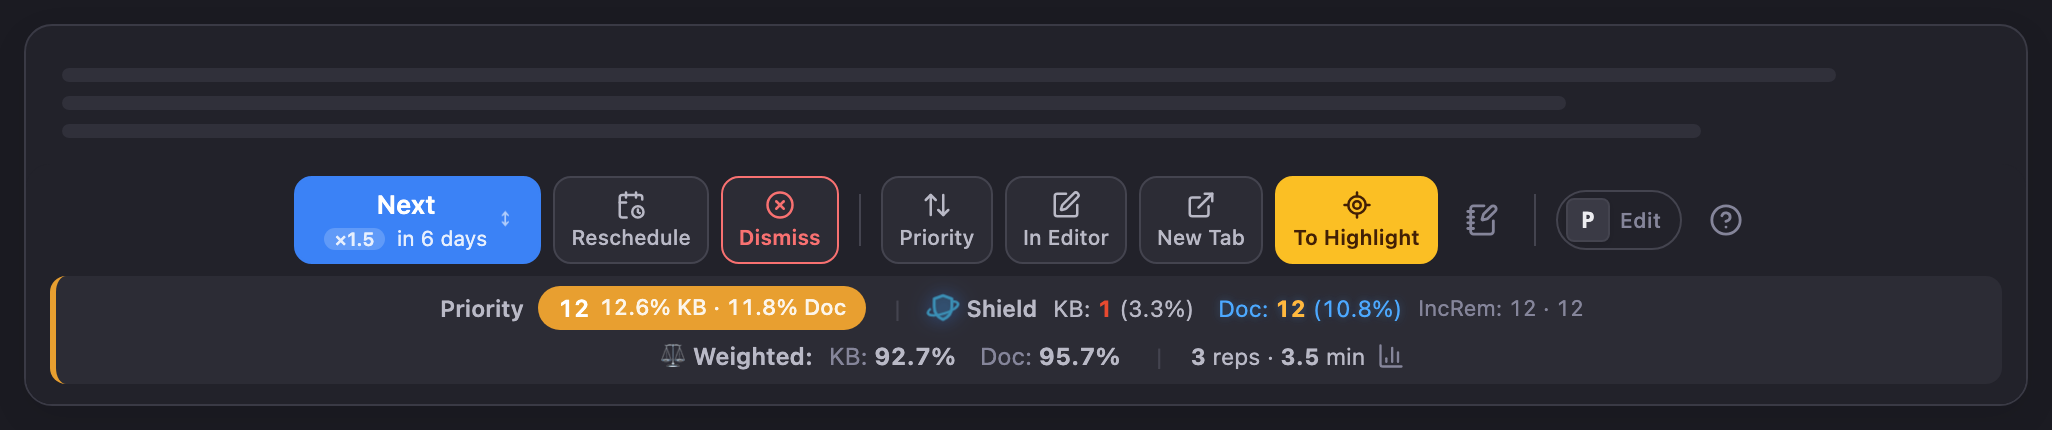
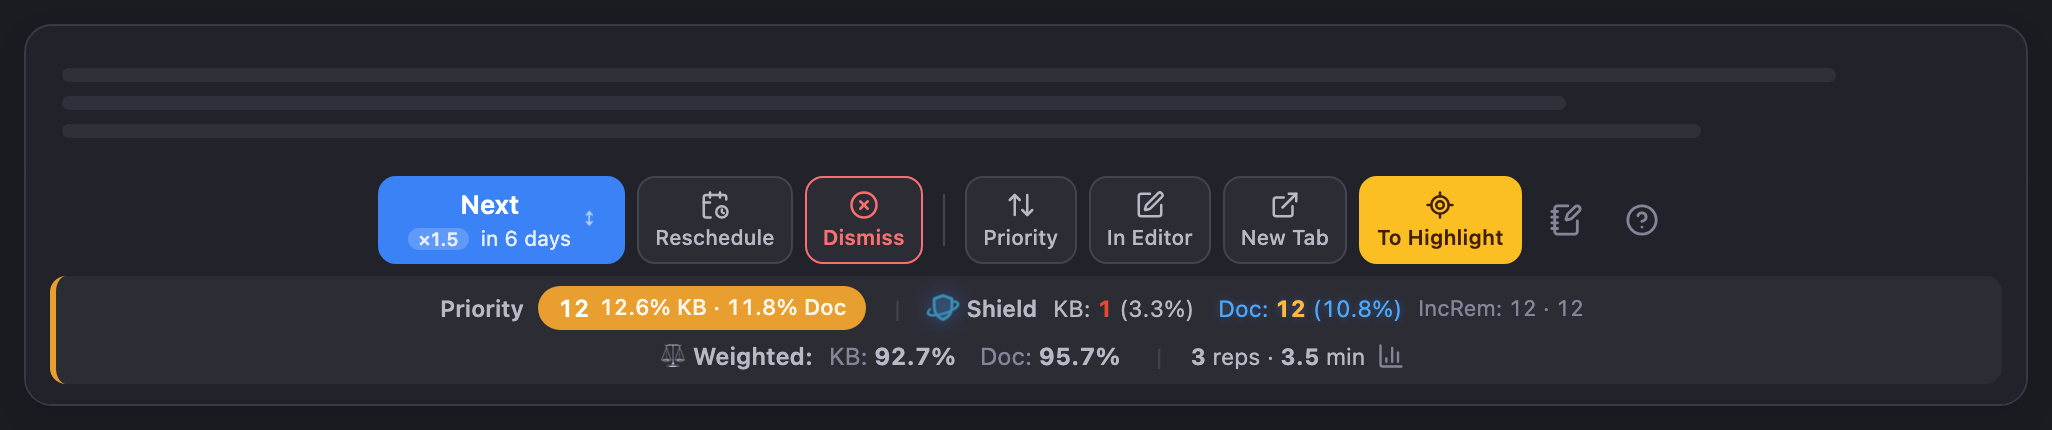
feat: update changelog for v1.0.239; remove P Edit hint and improve mobile button display

diff --git a/src/widgets/answer_buttons.tsx b/src/widgets/answer_buttons.tsx
@@ -861,52 +861,6 @@ export function AnswerButtons() {
           </>
         )}
 
-        {/* Desktop-only hint — compact informational badge */}
-        {!narrow && ['rem', 'pdf', 'pdf-highlight'].includes(remType || '') && (
-          <>
-            {divider}
-            <div
-              className="desktop-only-hint"
-              title="Press 'P' to open the Rem in RemNote's pop-up previewer for quick edits"
-              style={{
-                display: 'inline-flex',
-                alignItems: 'center',
-                gap: '5px',
-                padding: '3px 9px 3px 4px',
-                borderRadius: '999px',
-                border: '1px solid var(--rn-clr-border-primary)',
-                backgroundColor: 'transparent',
-                cursor: 'default',
-                pointerEvents: 'none',
-                userSelect: 'none',
-                whiteSpace: 'nowrap',
-              }}
-            >
-              <span style={{
-                display: 'inline-flex',
-                alignItems: 'center',
-                justifyContent: 'center',
-                width: '20px',
-                height: '20px',
-                borderRadius: '4px',
-                backgroundColor: 'var(--rn-clr-background-tertiary)',
-                border: '1px solid var(--rn-clr-border-primary)',
-                boxShadow: '0 1px 2px rgba(0,0,0,0.08)',
-                fontSize: '11px',
-                fontWeight: 700,
-                color: 'var(--rn-clr-content-primary)',
-                fontFamily: 'monospace',
-              }}>P</span>
-              <span style={{
-                fontSize: '10.5px',
-                fontWeight: 500,
-                color: 'var(--rn-clr-content-tertiary)',
-                letterSpacing: '0.2px',
-              }}>Edit</span>
-            </div>
-          </>
-        )}
-
         {!narrow && (
           <span
             role="button"

diff --git a/src/style.css b/src/style.css
@@ -86,12 +86,6 @@ body,
   border: 1px solid #ccc;
 }
 
-/* This rule applies only to screens with a max-width of 600px (typical for mobile phones) */
-@media (max-width: 600px) {
-  .desktop-only-hint {
-    display: none !important;
-  }
-}
 
 /* Calendar-icon-only date picker: hides the text portion and shows only the
    native browser calendar icon. Used alongside a text input for date entry. */

diff --git a/docs/Reviewing-Items-in-the-Queue.md b/docs/Reviewing-Items-in-the-Queue.md
@@ -65,12 +65,12 @@ This hold is within a session. Its counterpart across days is **cooling** in the
 
 ## The Answer Buttons
 
-![The answer buttons bar on a computer: Next, Reschedule, Dismiss, Priority, In Editor, New Tab and To Highlight, then the review-note, P Edit and help icons; below it the info bar with the priority, the Priority Shield, the Weighted Shield and the repetitions](assets/answer-bar-desktop.png#only-light){ width="900" }
-![The answer buttons bar on a computer: Next, Reschedule, Dismiss, Priority, In Editor, New Tab and To Highlight, then the review-note, P Edit and help icons; below it the info bar with the priority, the Priority Shield, the Weighted Shield and the repetitions](assets/answer-bar-desktop-dark.png#only-dark){ width="900" }
+![The answer buttons bar on a computer: Next, Reschedule, Dismiss, Priority, In Editor, New Tab and To Highlight, then the review-note and help icons; below it the info bar with the priority, the Priority Shield, the Weighted Shield and the repetitions](assets/answer-bar-desktop.png#only-light){ width="900" }
+![The answer buttons bar on a computer: Next, Reschedule, Dismiss, Priority, In Editor, New Tab and To Highlight, then the review-note and help icons; below it the info bar with the priority, the Priority Shield, the Weighted Shield and the repetitions](assets/answer-bar-desktop-dark.png#only-dark){ width="900" }
 
 Here is a breakdown of each button and its function, from left to right. Every button after **Next** is a compact icon button — icon above, one-word label below — so the whole row fits on one line; hover over any button for its full name and shortcut.
 
-**On a phone** (or in any pane narrower than 520 px) the bar shrinks to about a third of its height: one row with **Next** and its interval, then the same actions as square icon buttons without labels, and one line of figures under it (priority, repetitions, minutes). **New Tab**, the **P Edit** hint and the help icon are left out there.
+**On a phone** (or in any pane narrower than 520 px) the bar shrinks to about a third of its height: one row with **Next** and its interval, then the same actions as square icon buttons without labels, and one line of figures under it (priority, repetitions, minutes). **New Tab** and the help icon are left out there.
 
 ![The answer buttons bar on a phone: Next with its interval, then Reschedule, Dismiss, Priority, In Editor, To Highlight and the review note as icon buttons; below it one line with the priority and the repetitions](assets/answer-bar-phone.png#only-light){ width="420" }
 ![The answer buttons bar on a phone: Next with its interval, then Reschedule, Dismiss, Priority, In Editor, To Highlight and the review note as icon buttons; below it one line with the priority and the repetitions](assets/answer-bar-phone-dark.png#only-dark){ width="420" }
@@ -142,9 +142,6 @@ When the current Inc Rem has **more than one PDF source**, a small PDF dropdown 
   - The switcher is hidden for **PDF highlights and HTML hosts** (highlights are tied to a specific PDF; switching would orphan the queue card).
 
   *See the [PDF-Incremental-Reading-Workflow#multiple-pdf-sources--active-pdf-switcher-and-preferthispdf](PDF-Incremental-Reading-Workflow.md#multiple-pdf-sources-active-pdf-switcher-and-preferthispdf) section for the full resolution chain (pin → `#preferthispdf` → first PDF) and how it applies across every surface.*
-
-* **Press 'P' to Edit:**
-This is a non-clickable hint that appears **only for certain card types** (like regular Rem or PDFs). It reminds you that you can press the "P" key to open the Rem in the pop-up "previewer" for quick edits — a fast alternative when you don't want to use the sidebar. (For Rem-type IncRems the primary editing path is **✎ Edit** on the card; see [Editing a Rem-type Incremental Rem](#editing-a-rem-type-incremental-rem) below.)
 
 ![Queue Shortcuts](assets/queue-shortcuts.png){ width="900" }
 

diff --git a/docs/Changelog.md b/docs/Changelog.md
@@ -2,6 +2,14 @@
 
 This page documents the major changes and improvements for each version of the Incremental RemNote plugin.
 
+## v1.0.239 - November 17th, 2026
+
+### 📝 Changed
+
+**Answer buttons**: the **P Edit** hint is gone. An Incremental Rem is edited with **✎ Edit** on its card, **In Editor** or **New Tab**; RemNote's `P` key still opens the previewer.
+
+📖 [Reviewing Items in the Queue → The Answer Buttons](Reviewing-Items-in-the-Queue.md#the-answer-buttons)
+
 ## v1.0.238 - November 17th, 2026
 
 ### 🐛 Fixed
